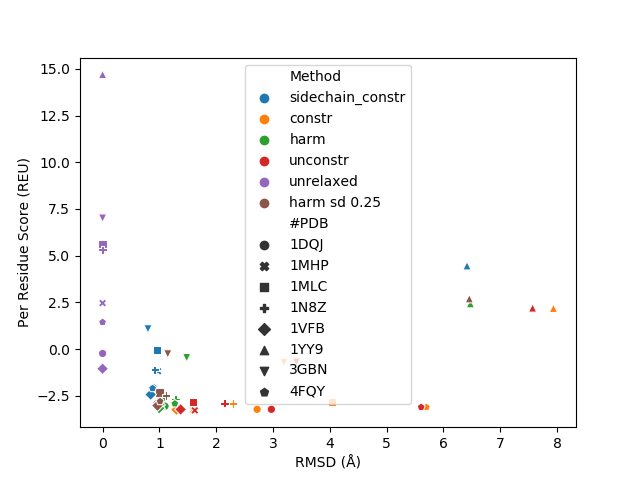
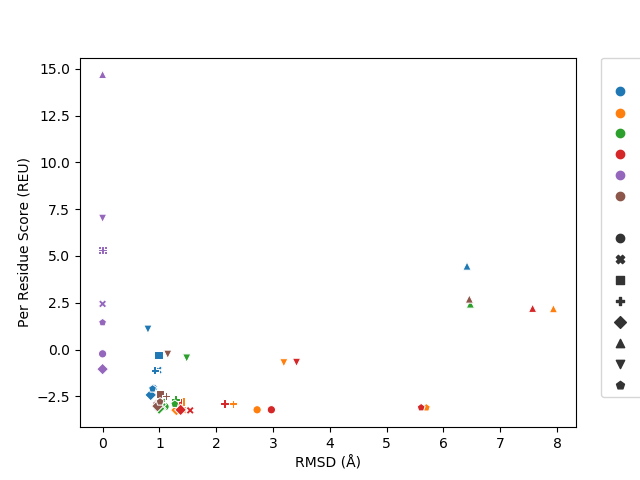
new rmsd plot

diff --git a/harmonic_prerelax.py b/harmonic_prerelax.py
@@ -15,7 +15,7 @@ init('-ex1 -ex2 -linmem_ig 10')  # add -ex1 -ex2
 # data = pd.read_csv("./raw_datasets/interface_data_use.csv")
 # pdbs = data["#PDB"].unique()
 
-pdbs = ["5C6T", "3NGB", "3N85", "3L5X", "3G6D", "3BN9", "2NZ9", "2NYY", "2NY7", "1XGQ", "1XGP", "1NCA", "1KIR", "1KIQ", "1KIP"] # remaining pdbs to do
+pdbs = ["1XGP", "1NCA", "1KIR", "1KIQ", "1KIP"] # remaining pdbs to do
 poses = []
 for pdb in pdbs:
     pose = pose_from_pdb(f"./PDBs/{pdb}.pdb")

diff --git a/rmsd_graph.py b/rmsd_graph.py
@@ -84,4 +84,5 @@ print(df3)
 
 plot = sns.scatterplot(x="RMSD (Å)", y="Per Residue Score (REU)",
                        hue="Method", style="#PDB", data=df3)
+plt.legend(bbox_to_anchor=(1.05, 1), loc='upper left', borderaxespad=0)
 plt.savefig("./images/rmsd_plot.png")
